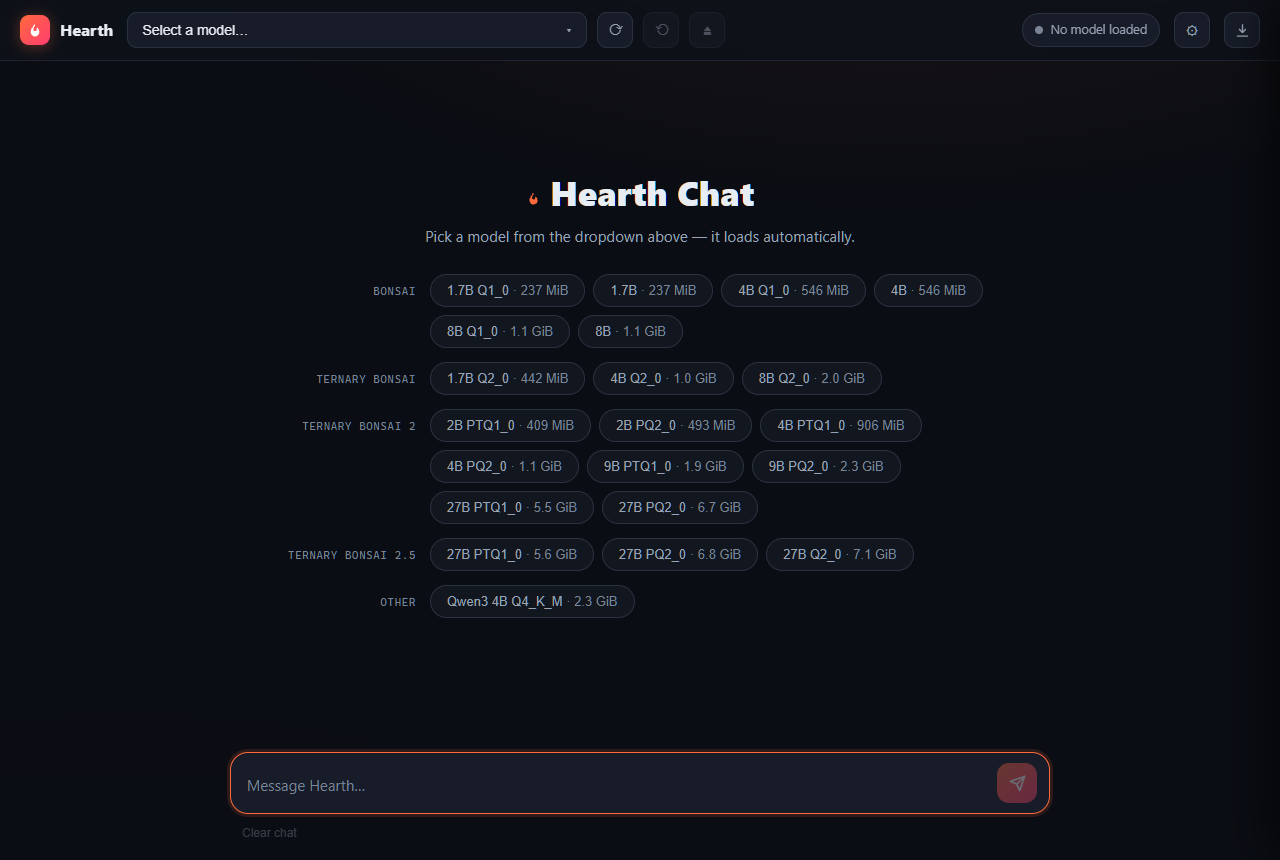
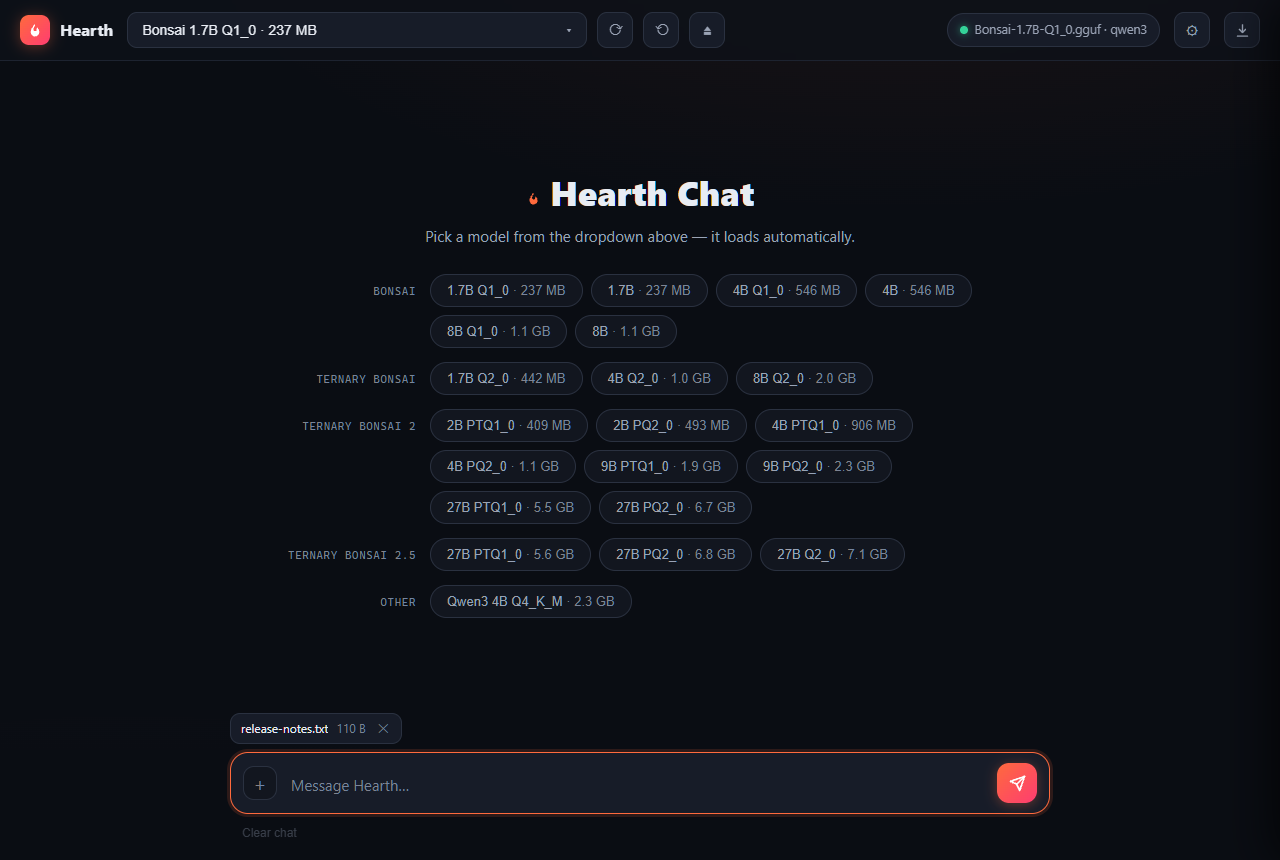
Document chat attachments and refresh the UI screenshots

diff --git a/CHANGELOG.md b/CHANGELOG.md
@@ -24,6 +24,11 @@ version number.
 - **Intel macOS is type-checked on every PR**: `macos-latest` is arm64, so
   `x86_64-apple-darwin` joins the Ubuntu cross-check matrix alongside the
   aarch64 targets.
+- **Chat file attachments**: the composer has a `+` picker with no extension
+  filter; pasted files and long text become one-shot attachment chips.
+  `POST /api/attach` takes raw bytes up to 4 MiB, and the server inlines UTF-8
+  text up to 40k characters into the prompt while describing binary files by
+  name and size instead of feeding their bytes to the model.
 
 ### Changed
 
